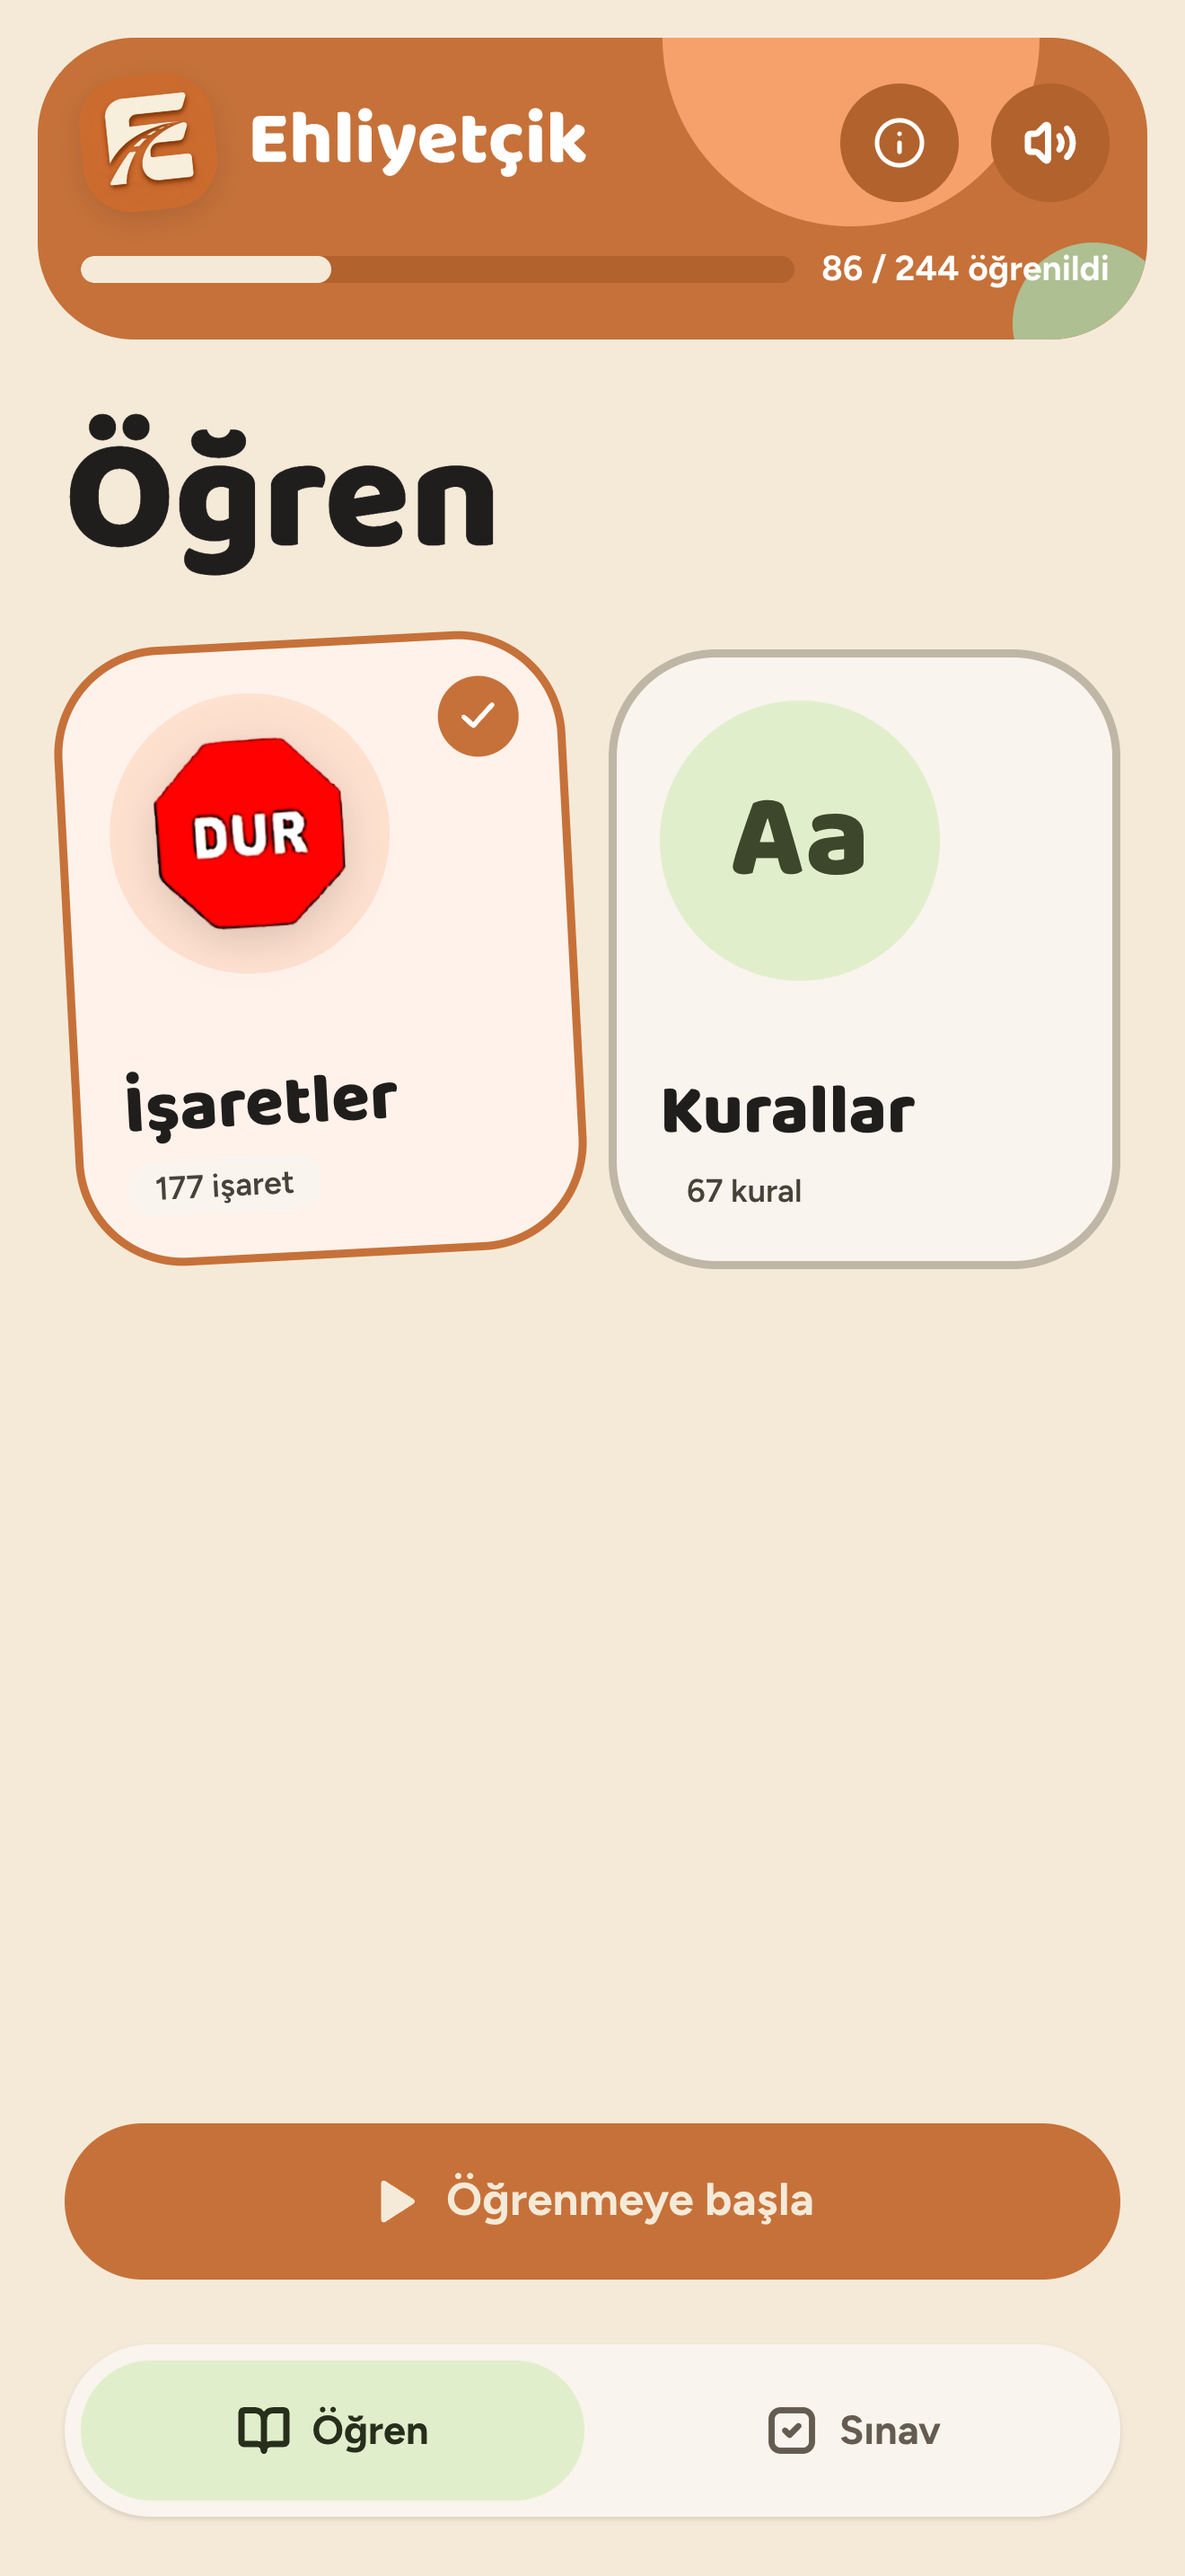
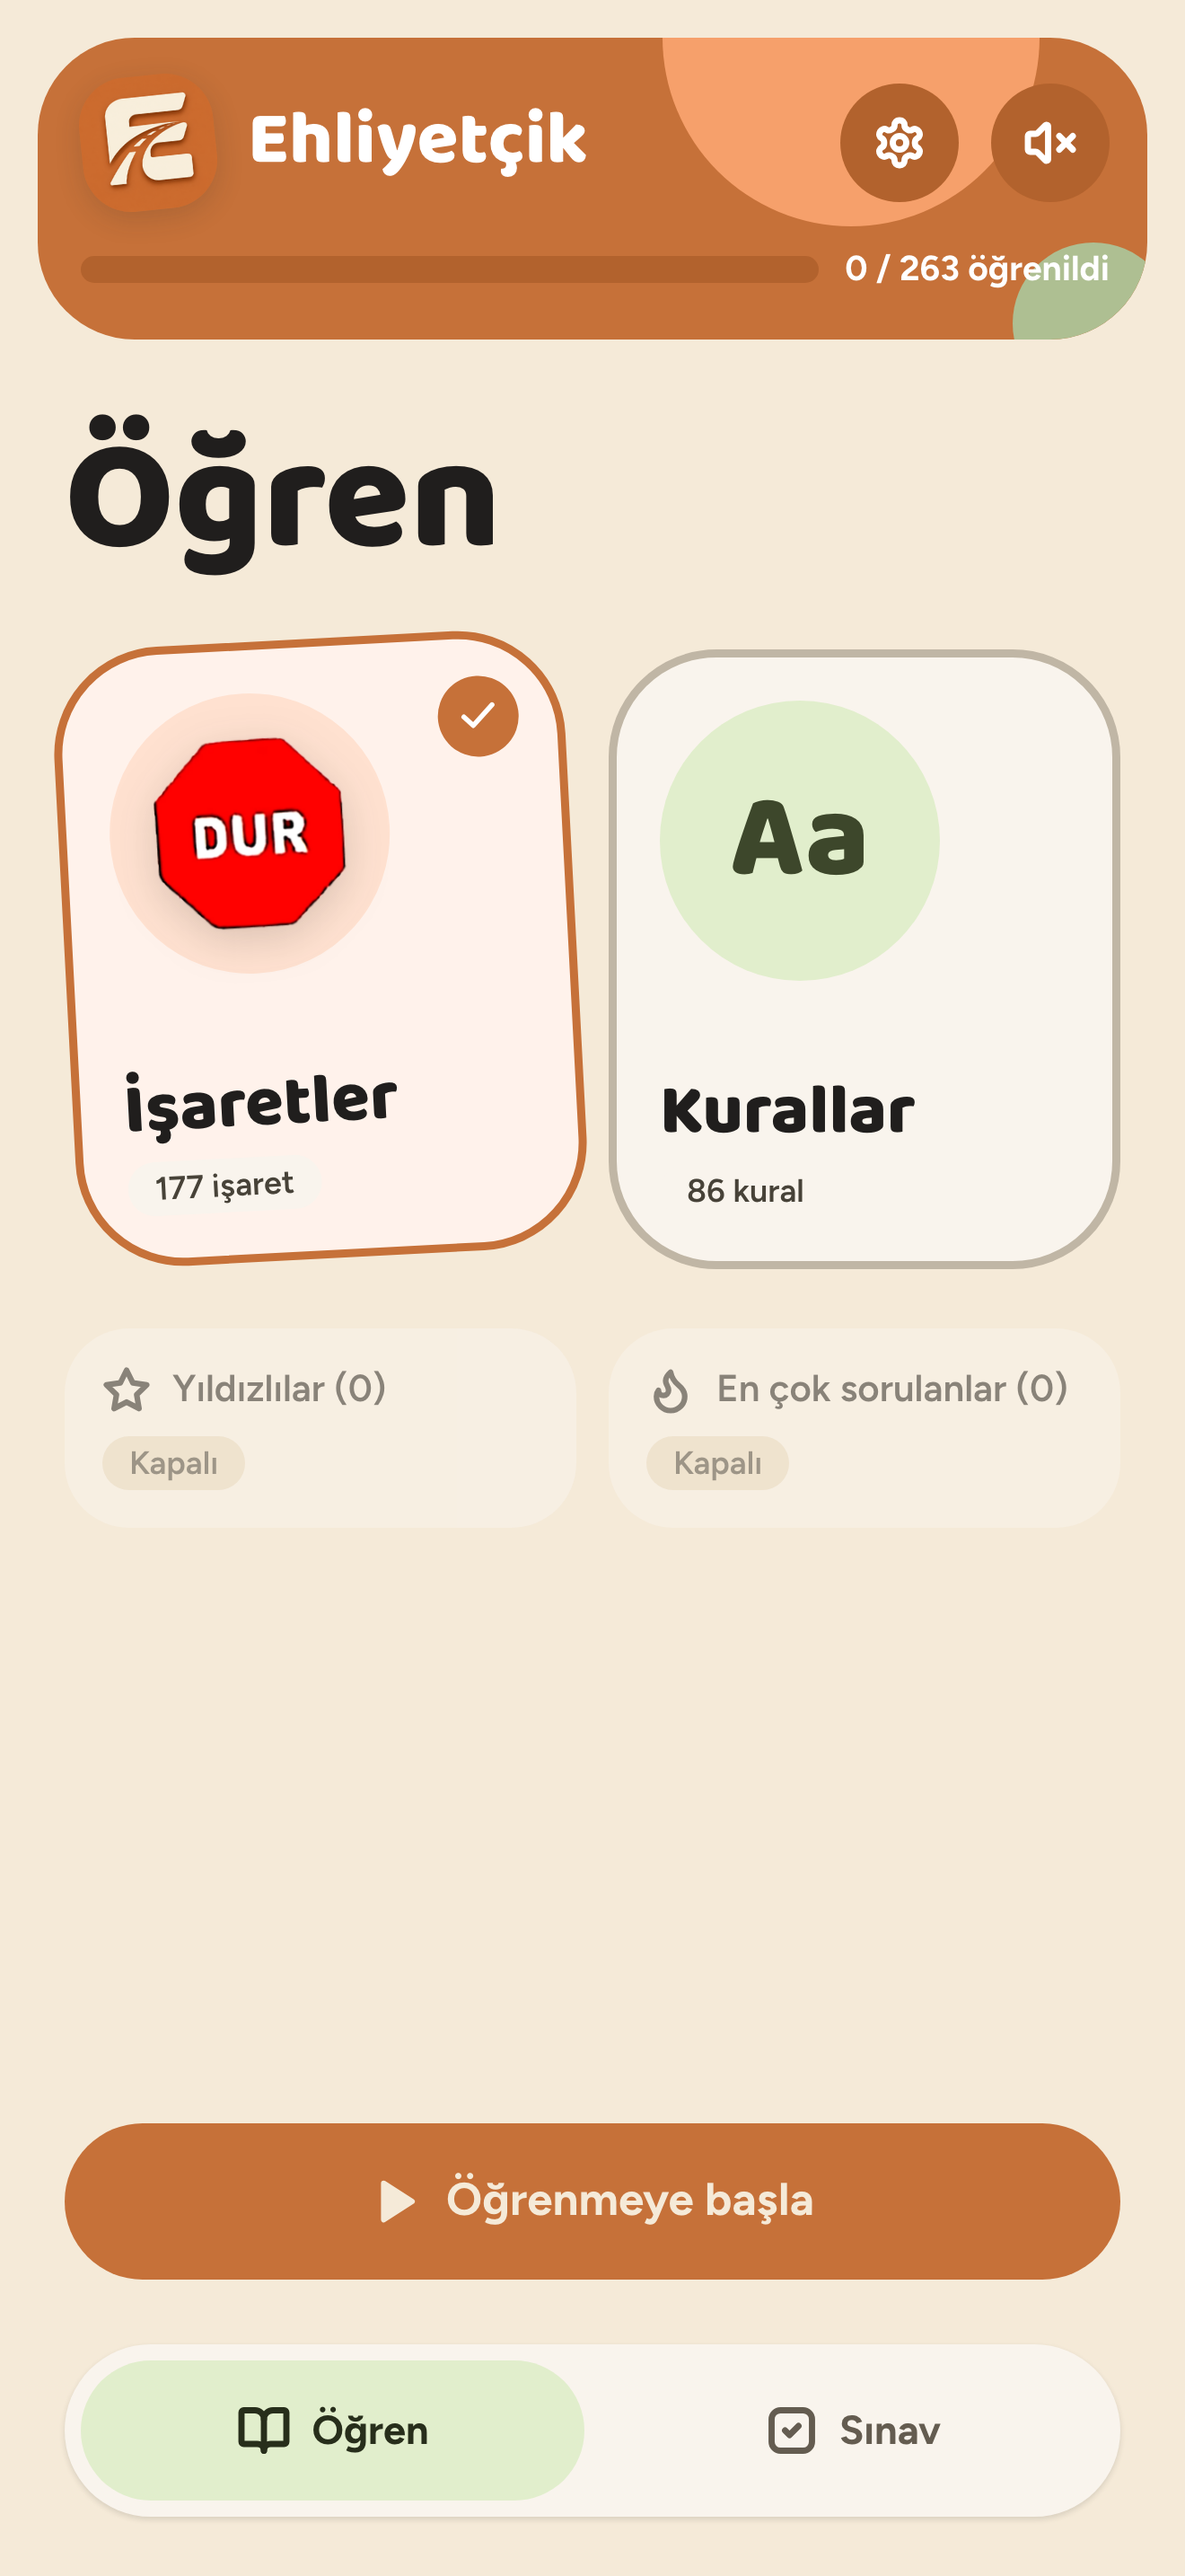
Retake 6.9" App Store screenshots: coach card and settings sheet

diff --git a/docs/appstore/submission-checklist.md b/docs/appstore/submission-checklist.md
@@ -5,7 +5,7 @@ Done in the repo:
 - [x] `ITSAppUsesNonExemptEncryption = false`, `UIRequiredDeviceCapabilities = arm64`
 - [x] App-level `ios/App/App/PrivacyInfo.xcprivacy` (no tracking, no collected data, no required-reason APIs); Capacitor 8 ships its own empty manifest too
 - [x] Bundled Piper audio for every question (`public/audio`, 311 mp3)
-- [x] Icon, 6.9" screenshots (1320×2868, no alpha, retaken for build 5: home, learn sign, exam, learn rule, sound menu, exam answer), metadata (`docs/appstore/metadata.md`), privacy/support pages (`site/`)
+- [x] Icon, 6.9" screenshots (1320×2868, no alpha, retaken 2026-10-04: home, coach card, exam, exam answer, settings, sound menu), metadata (`docs/appstore/metadata.md`), privacy/support pages (`site/`)
 
 In Xcode (after `make ios`):
 - [ ] Run on a real iPhone: Öğren audio plays (also with the silent switch on), swipe, Sınav, retry wrong answers, About links
